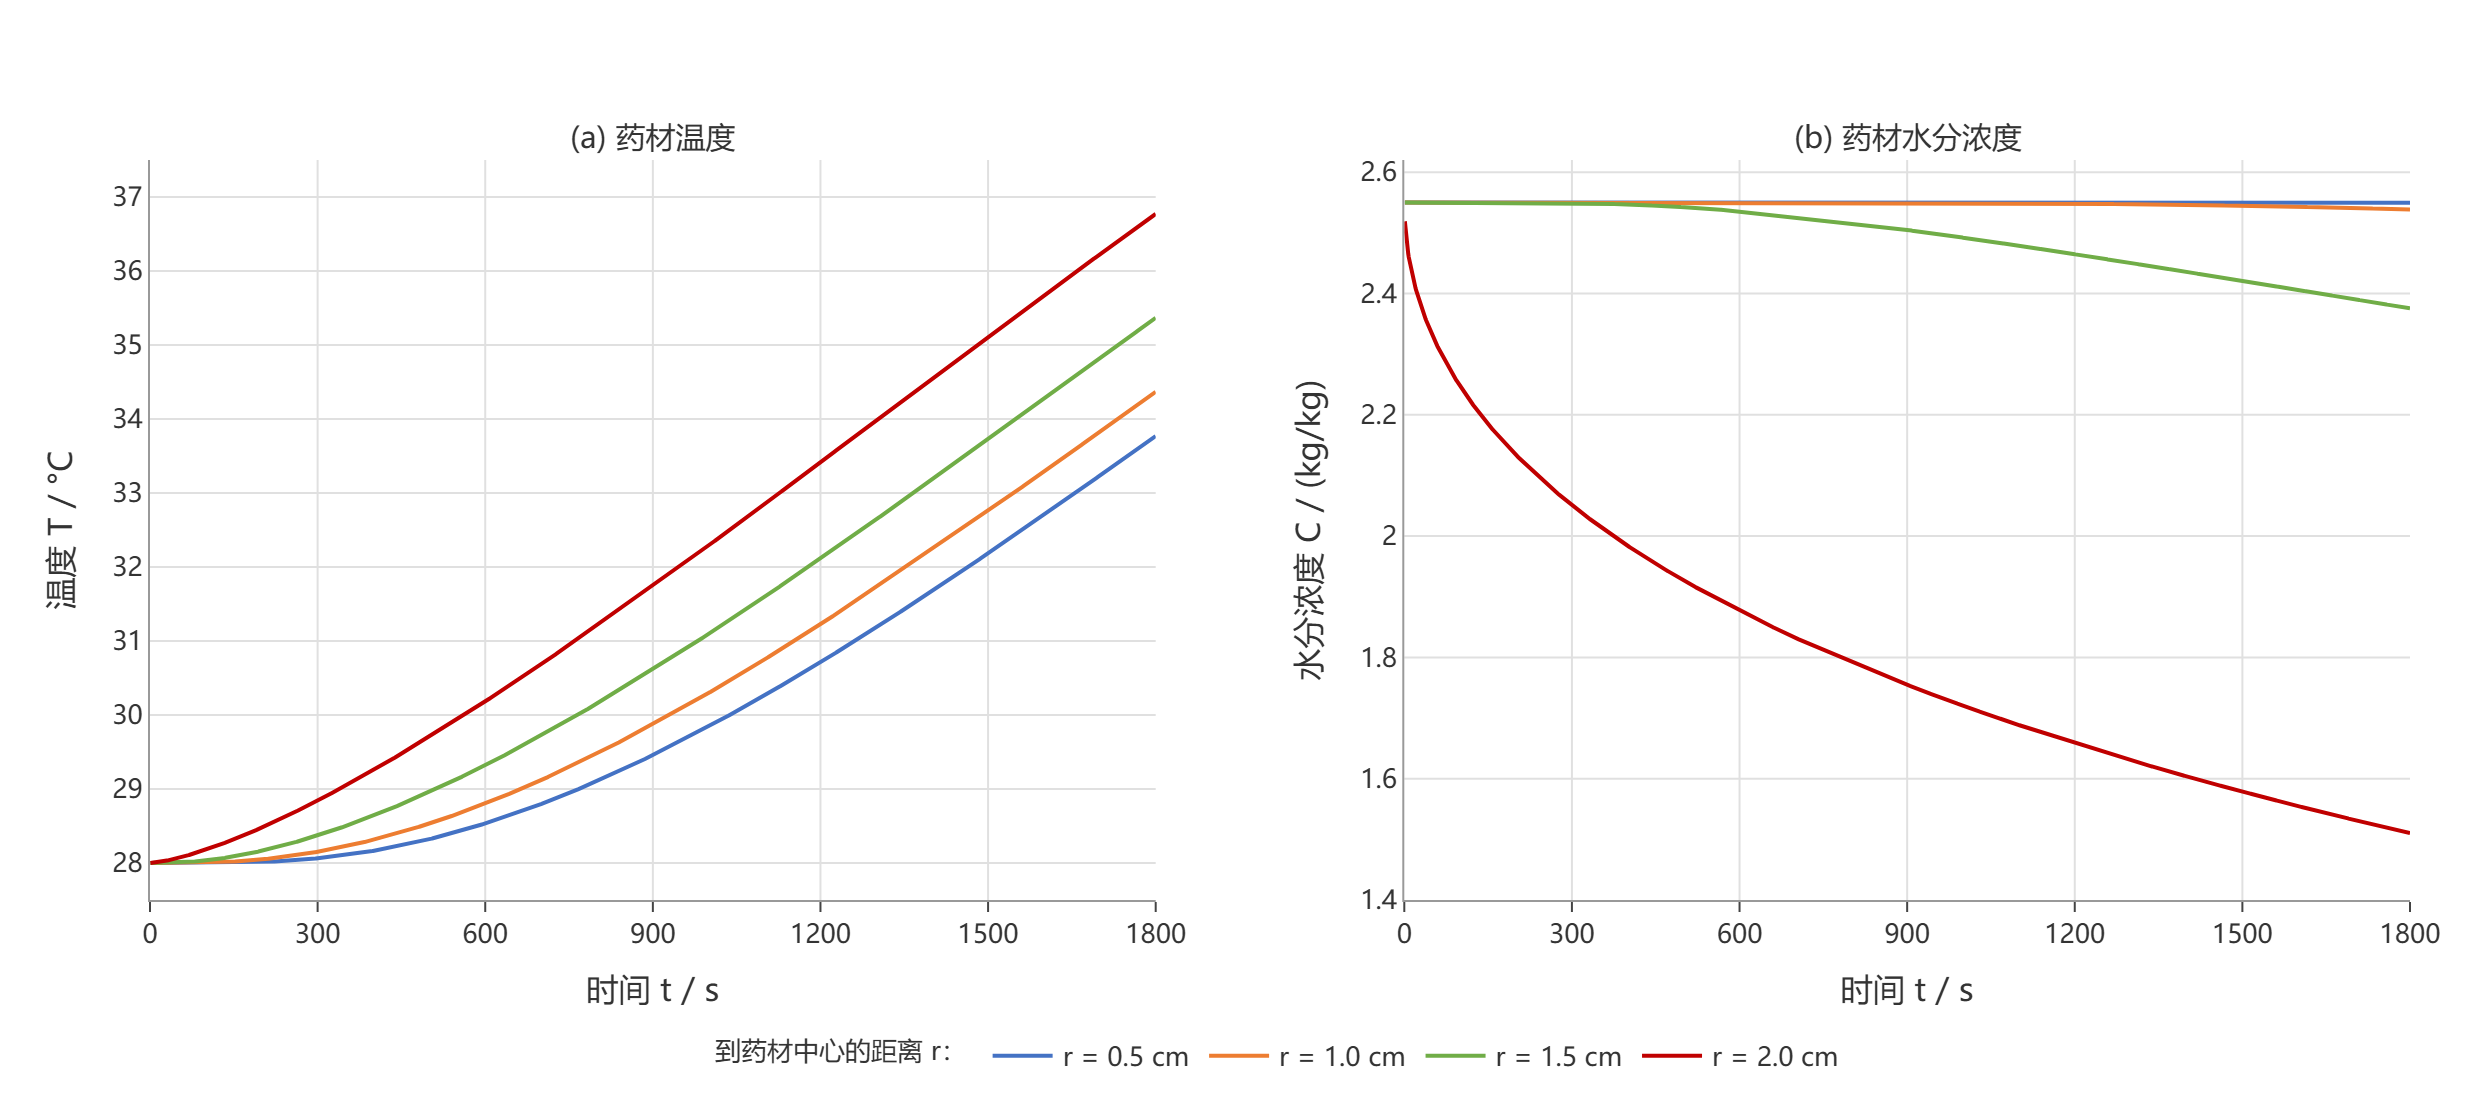
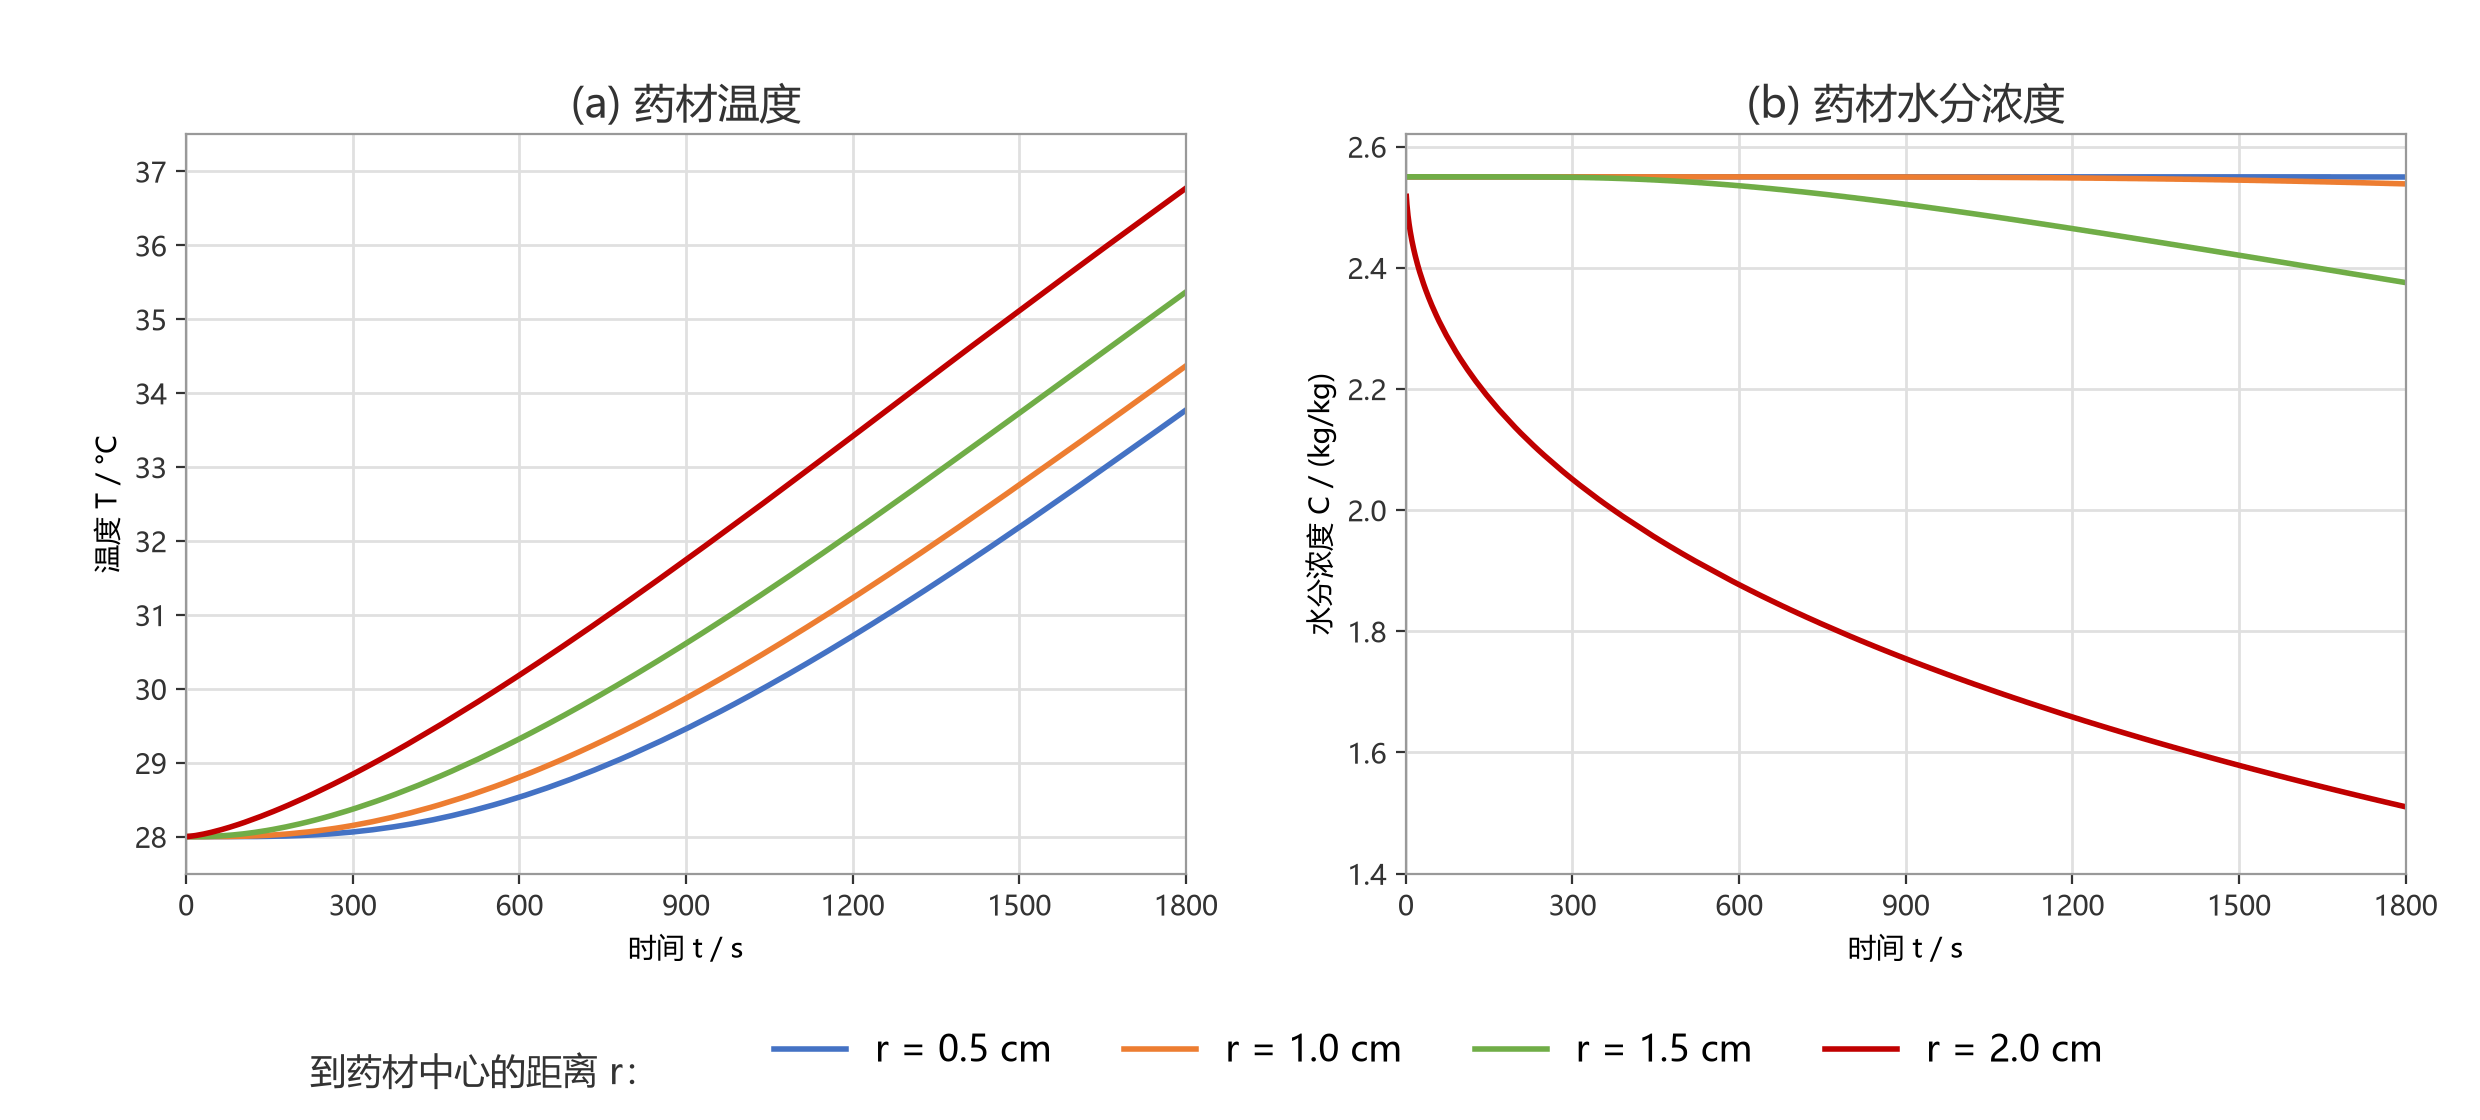
修复问题一曲线图静态导出

diff --git a/Problem I/plot_curves.py b/Problem I/plot_curves.py
@@ -1,6 +1,6 @@
 # -*- coding: utf-8 -*-
 """
-问题一 结果曲线图（Plotly 版本）
+问题一 结果曲线图
 ================================================================
 数据源：../result1.xlsx
         工作表「温度」与「水分浓度」，A 列为时间 t / s，第 1 行为到药材中心的距离 r / cm
@@ -14,15 +14,19 @@
 """
 import os
 
+import matplotlib
+matplotlib.use("Agg")
+import matplotlib.pyplot as plt
 import numpy as np
 import openpyxl
-import plotly.graph_objects as go
-from plotly.subplots import make_subplots
 
 # ---------------- 全局绘图规范 ----------------
-FONT = "Microsoft YaHei, SimHei, sans-serif"
+FONT = ["Microsoft YaHei", "SimHei", "DejaVu Sans"]
 INK = "#333333"
 GRID = "#E0E0E0"
+
+plt.rcParams["font.sans-serif"] = FONT
+plt.rcParams["axes.unicode_minus"] = False
 
 # 要画的 4 个半径位置（cm）与各自的颜色（Office 主题色系，由内到外递进）
 RADII_CM = [0.5, 1.0, 1.5, 2.0]
@@ -75,78 +79,59 @@ def main():
     t, temp = load_sheet(SRC, "温度", RADII_CM)
     _, moist = load_sheet(SRC, "水分浓度", RADII_CM)
 
-    fig = make_subplots(
-        rows=1, cols=2,
-        horizontal_spacing=0.11,
-        subplot_titles=["(a) 药材温度", "(b) 药材水分浓度"],
-    )
+    fig, axes = plt.subplots(1, 2, figsize=(12.4, 5.6))
+    ax_temp, ax_moist = axes
 
     for r in RADII_CM:
-        fig.add_trace(
-            go.Scatter(
-                x=t, y=temp[r], mode="lines",
-                line=dict(color=COLORS[r], width=2),
-                name=f"r = {r:.1f} cm",
-                legendgroup=f"r{r}", showlegend=True,
-                hovertemplate=(f"t = %{{x:.0f}} s<br>T = %{{y:.4f}} °C"
-                               f"<extra>r = {r:.1f} cm</extra>"),
-            ), row=1, col=1,
+        ax_temp.plot(
+            t, temp[r], color=COLORS[r], linewidth=2,
+            label=f"r = {r:.1f} cm",
         )
-        fig.add_trace(
-            go.Scatter(
-                x=t, y=moist[r], mode="lines",
-                line=dict(color=COLORS[r], width=2),
-                name=f"r = {r:.1f} cm",
-                legendgroup=f"r{r}", showlegend=False,
-                hovertemplate=(f"t = %{{x:.0f}} s<br>C = %{{y:.4f}} kg/kg"
-                               f"<extra>r = {r:.1f} cm</extra>"),
-            ), row=1, col=2,
+        ax_moist.plot(
+            t, moist[r], color=COLORS[r], linewidth=2,
+            label=f"r = {r:.1f} cm",
         )
 
     # ---------------- 坐标轴 ----------------
-    axis_common = dict(
-        tickmode="linear", tick0=0, dtick=300,
-        showgrid=True, gridcolor=GRID, gridwidth=1,
-        zeroline=False, linecolor="#999999", ticks="outside",
-    )
-    fig.update_xaxes(title_text="时间 t / s", range=[0, 1800], **axis_common, row=1, col=1)
-    fig.update_xaxes(title_text="时间 t / s", range=[0, 1800], **axis_common, row=1, col=2)
+    for ax in axes:
+        ax.set_xlim(0, 1800)
+        ax.set_xticks(np.arange(0, 1801, 300))
+        ax.set_xlabel("时间 t / s")
+        ax.grid(True, color=GRID, linewidth=1)
+        ax.tick_params(direction="out", colors=INK)
+        for spine in ax.spines.values():
+            spine.set_color("#999999")
 
-    fig.update_yaxes(
-        title_text="温度 T / °C", range=[27.5, 37.5],
-        tickmode="linear", tick0=28, dtick=1,
-        showgrid=True, gridcolor=GRID, gridwidth=1,
-        zeroline=False, linecolor="#999999", row=1, col=1,
-    )
-    fig.update_yaxes(
-        title_text="水分浓度 C / (kg/kg)", range=[1.40, 2.62],
-        tickmode="linear", tick0=1.4, dtick=0.2,
-        showgrid=True, gridcolor=GRID, gridwidth=1,
-        zeroline=False, linecolor="#999999", row=1, col=2,
-    )
+    ax_temp.set_title("(a) 药材温度", fontsize=15, color=INK)
+    ax_temp.set_ylabel("温度 T / °C")
+    ax_temp.set_ylim(27.5, 37.5)
+    ax_temp.set_yticks(np.arange(28, 38, 1))
+
+    ax_moist.set_title("(b) 药材水分浓度", fontsize=15, color=INK)
+    ax_moist.set_ylabel("水分浓度 C / (kg/kg)")
+    ax_moist.set_ylim(1.40, 2.62)
+    ax_moist.set_yticks(np.arange(1.4, 2.61, 0.2))
 
     # ---------------- 版面 ----------------
-    fig.update_layout(
-        width=1240, height=560,
-        margin=dict(l=75, r=35, t=80, b=110),
-        font=dict(family=FONT, size=13, color=INK),
-        legend=dict(
-            orientation="h", x=0.5, y=-0.17,
-            xanchor="center", yanchor="top",
-            font=dict(size=13, family=FONT, color=INK),
-            bgcolor="rgba(0,0,0,0)",
-            title=dict(text="到药材中心的距离 r：", font=dict(size=13, family=FONT, color=INK),
-                       side="left"),
-        ),
-        paper_bgcolor="white",
-        plot_bgcolor="white",
+    handles, labels = ax_temp.get_legend_handles_labels()
+    fig.legend(
+        handles, labels, ncol=4, loc="lower center",
+        bbox_to_anchor=(0.58, 0.015), frameon=False, fontsize=13,
     )
-    for ann in fig.layout.annotations:
-        if ann.text and ann.text.startswith("("):
-            ann.font = dict(size=15, family=FONT, color=INK)
+    fig.text(0.125, 0.032, "到药材中心的距离 r：", fontsize=13, color=INK)
+    fig.subplots_adjust(left=0.075, right=0.97, top=0.88, bottom=0.22, wspace=0.22)
 
     os.makedirs(GRAPHICS, exist_ok=True)
-    fig.write_image(OUT, scale=2)
+    # 直接由 Matplotlib 写入 PNG，避免 Kaleido 在 Windows 上清理
+    # Chrome 子进程时偶发的 “Couldn't close or kill browser subprocess”。
+    tmp_out = f"{OUT}.tmp"
+    try:
+        fig.savefig(tmp_out, format="png", dpi=200, facecolor="white")
+        os.replace(tmp_out, OUT)
+    finally:
+        plt.close(fig)
+        if os.path.exists(tmp_out):
+            os.remove(tmp_out)
 
     print("曲线图已生成：")
     print("  ", OUT)
